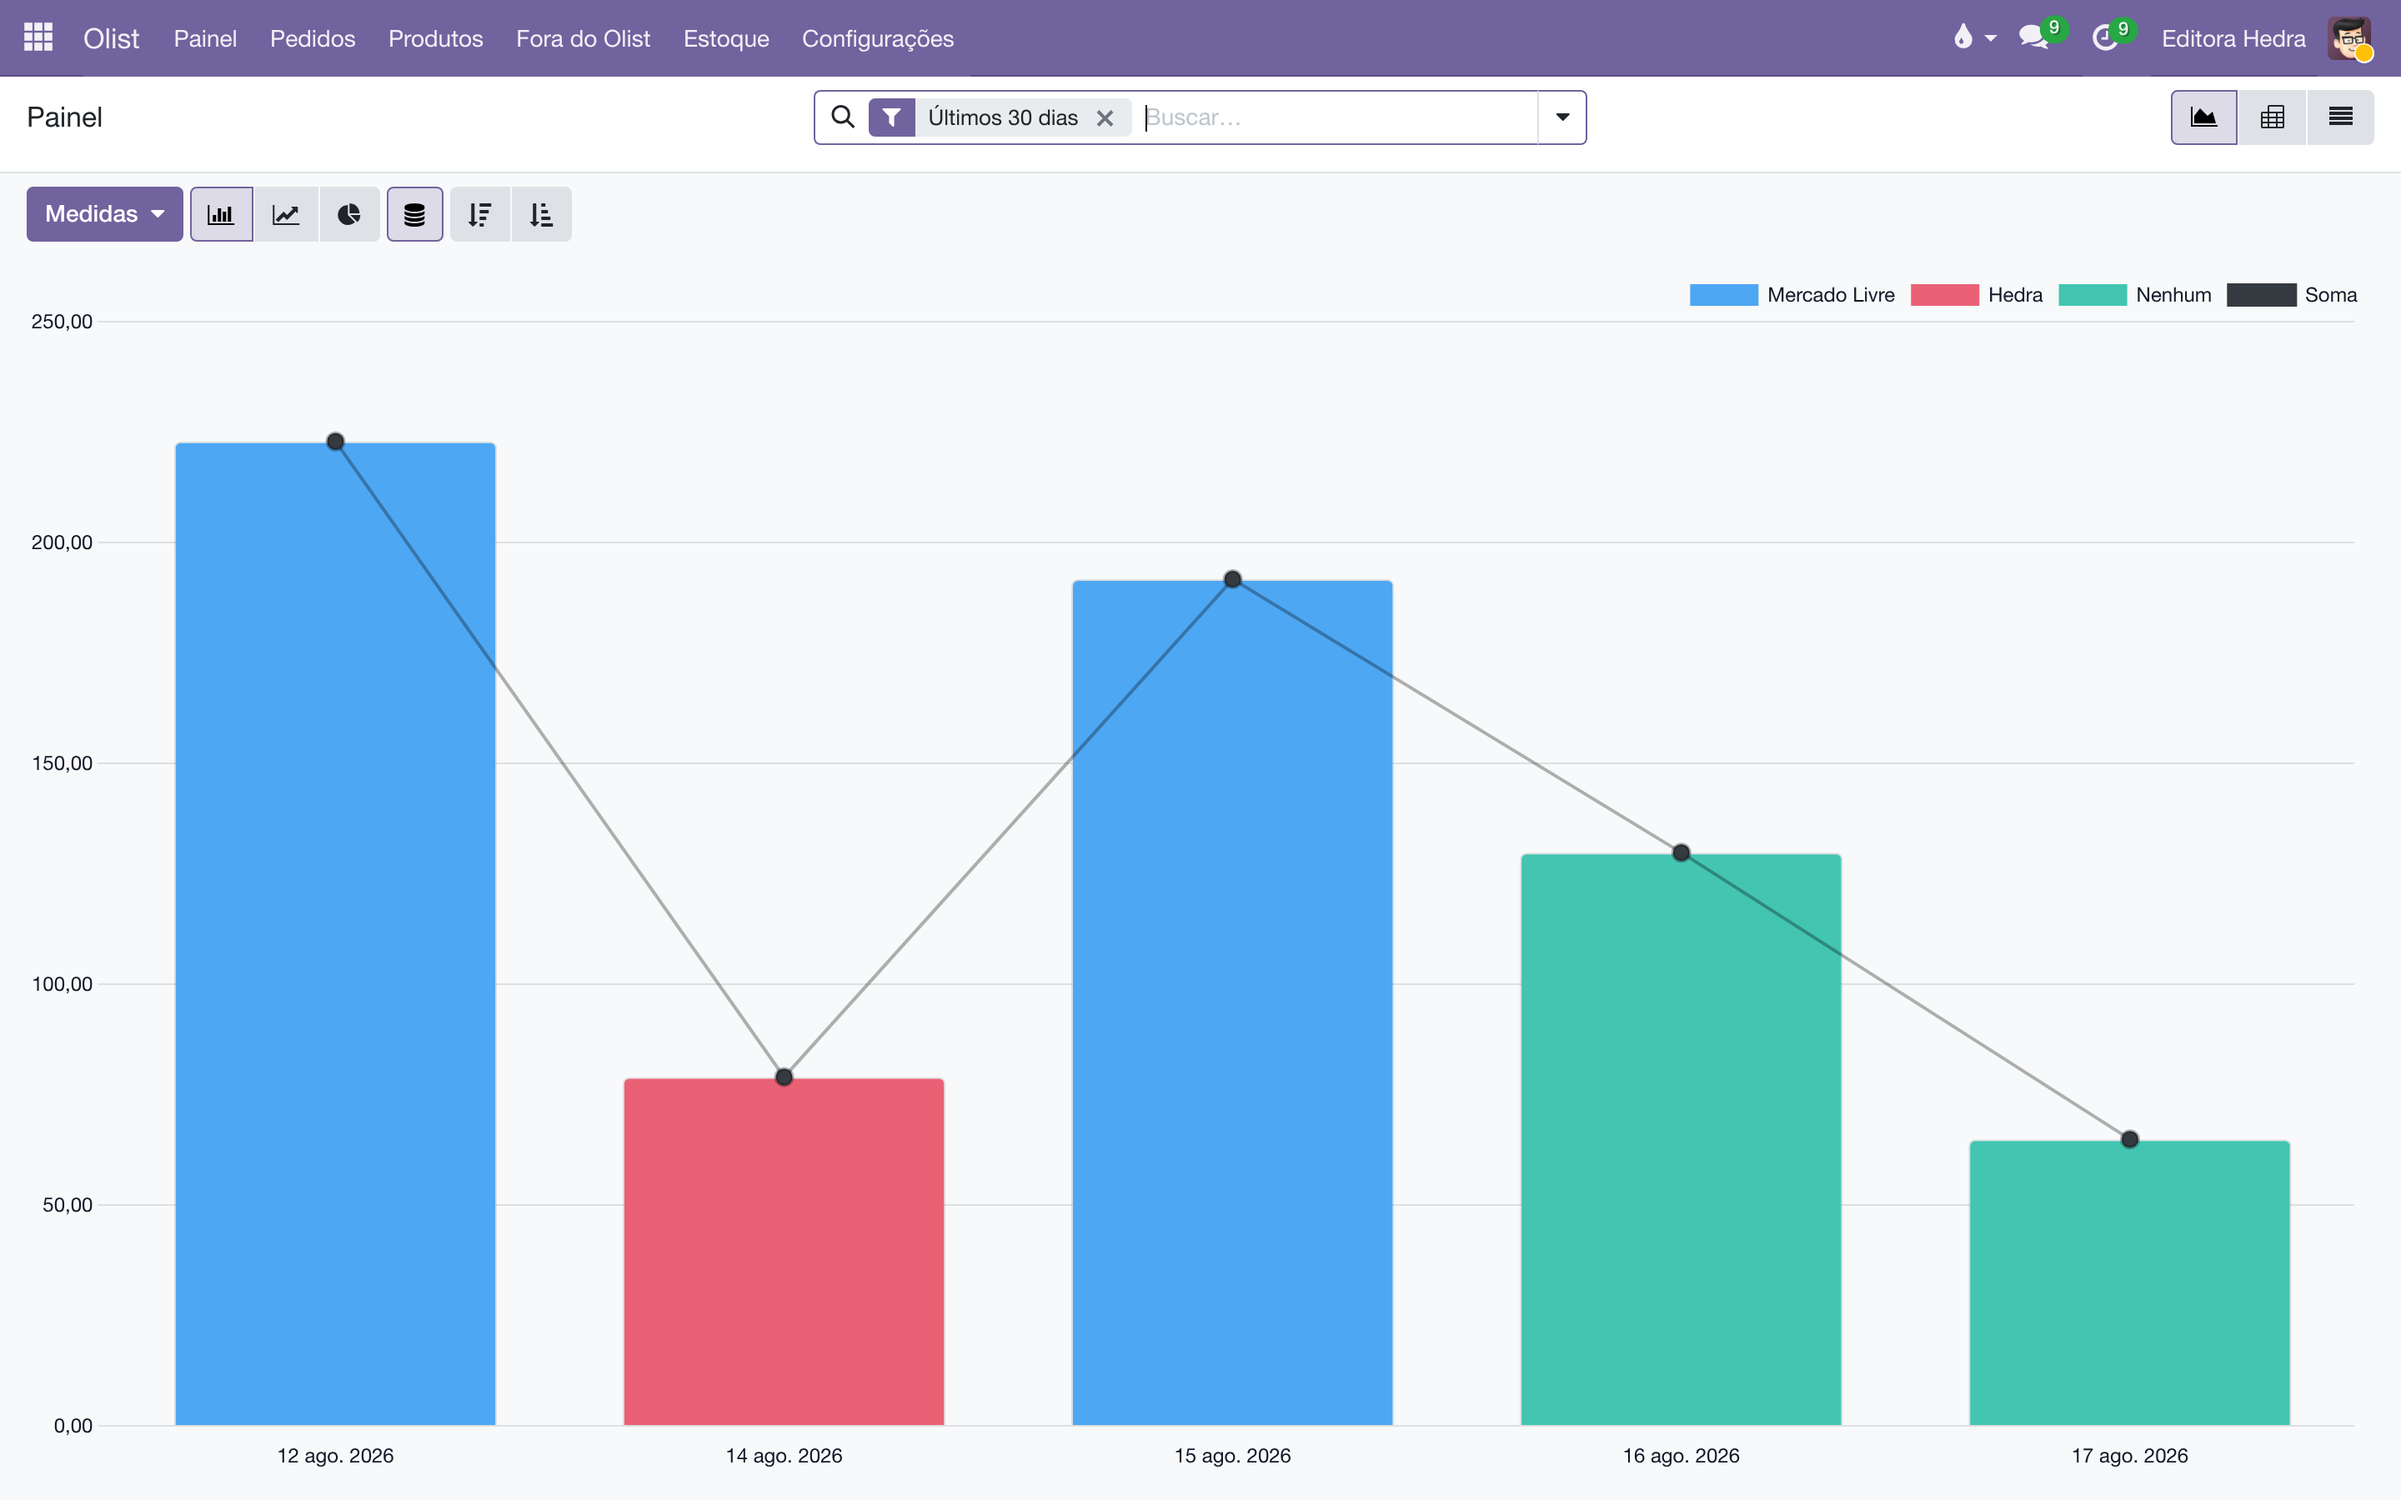
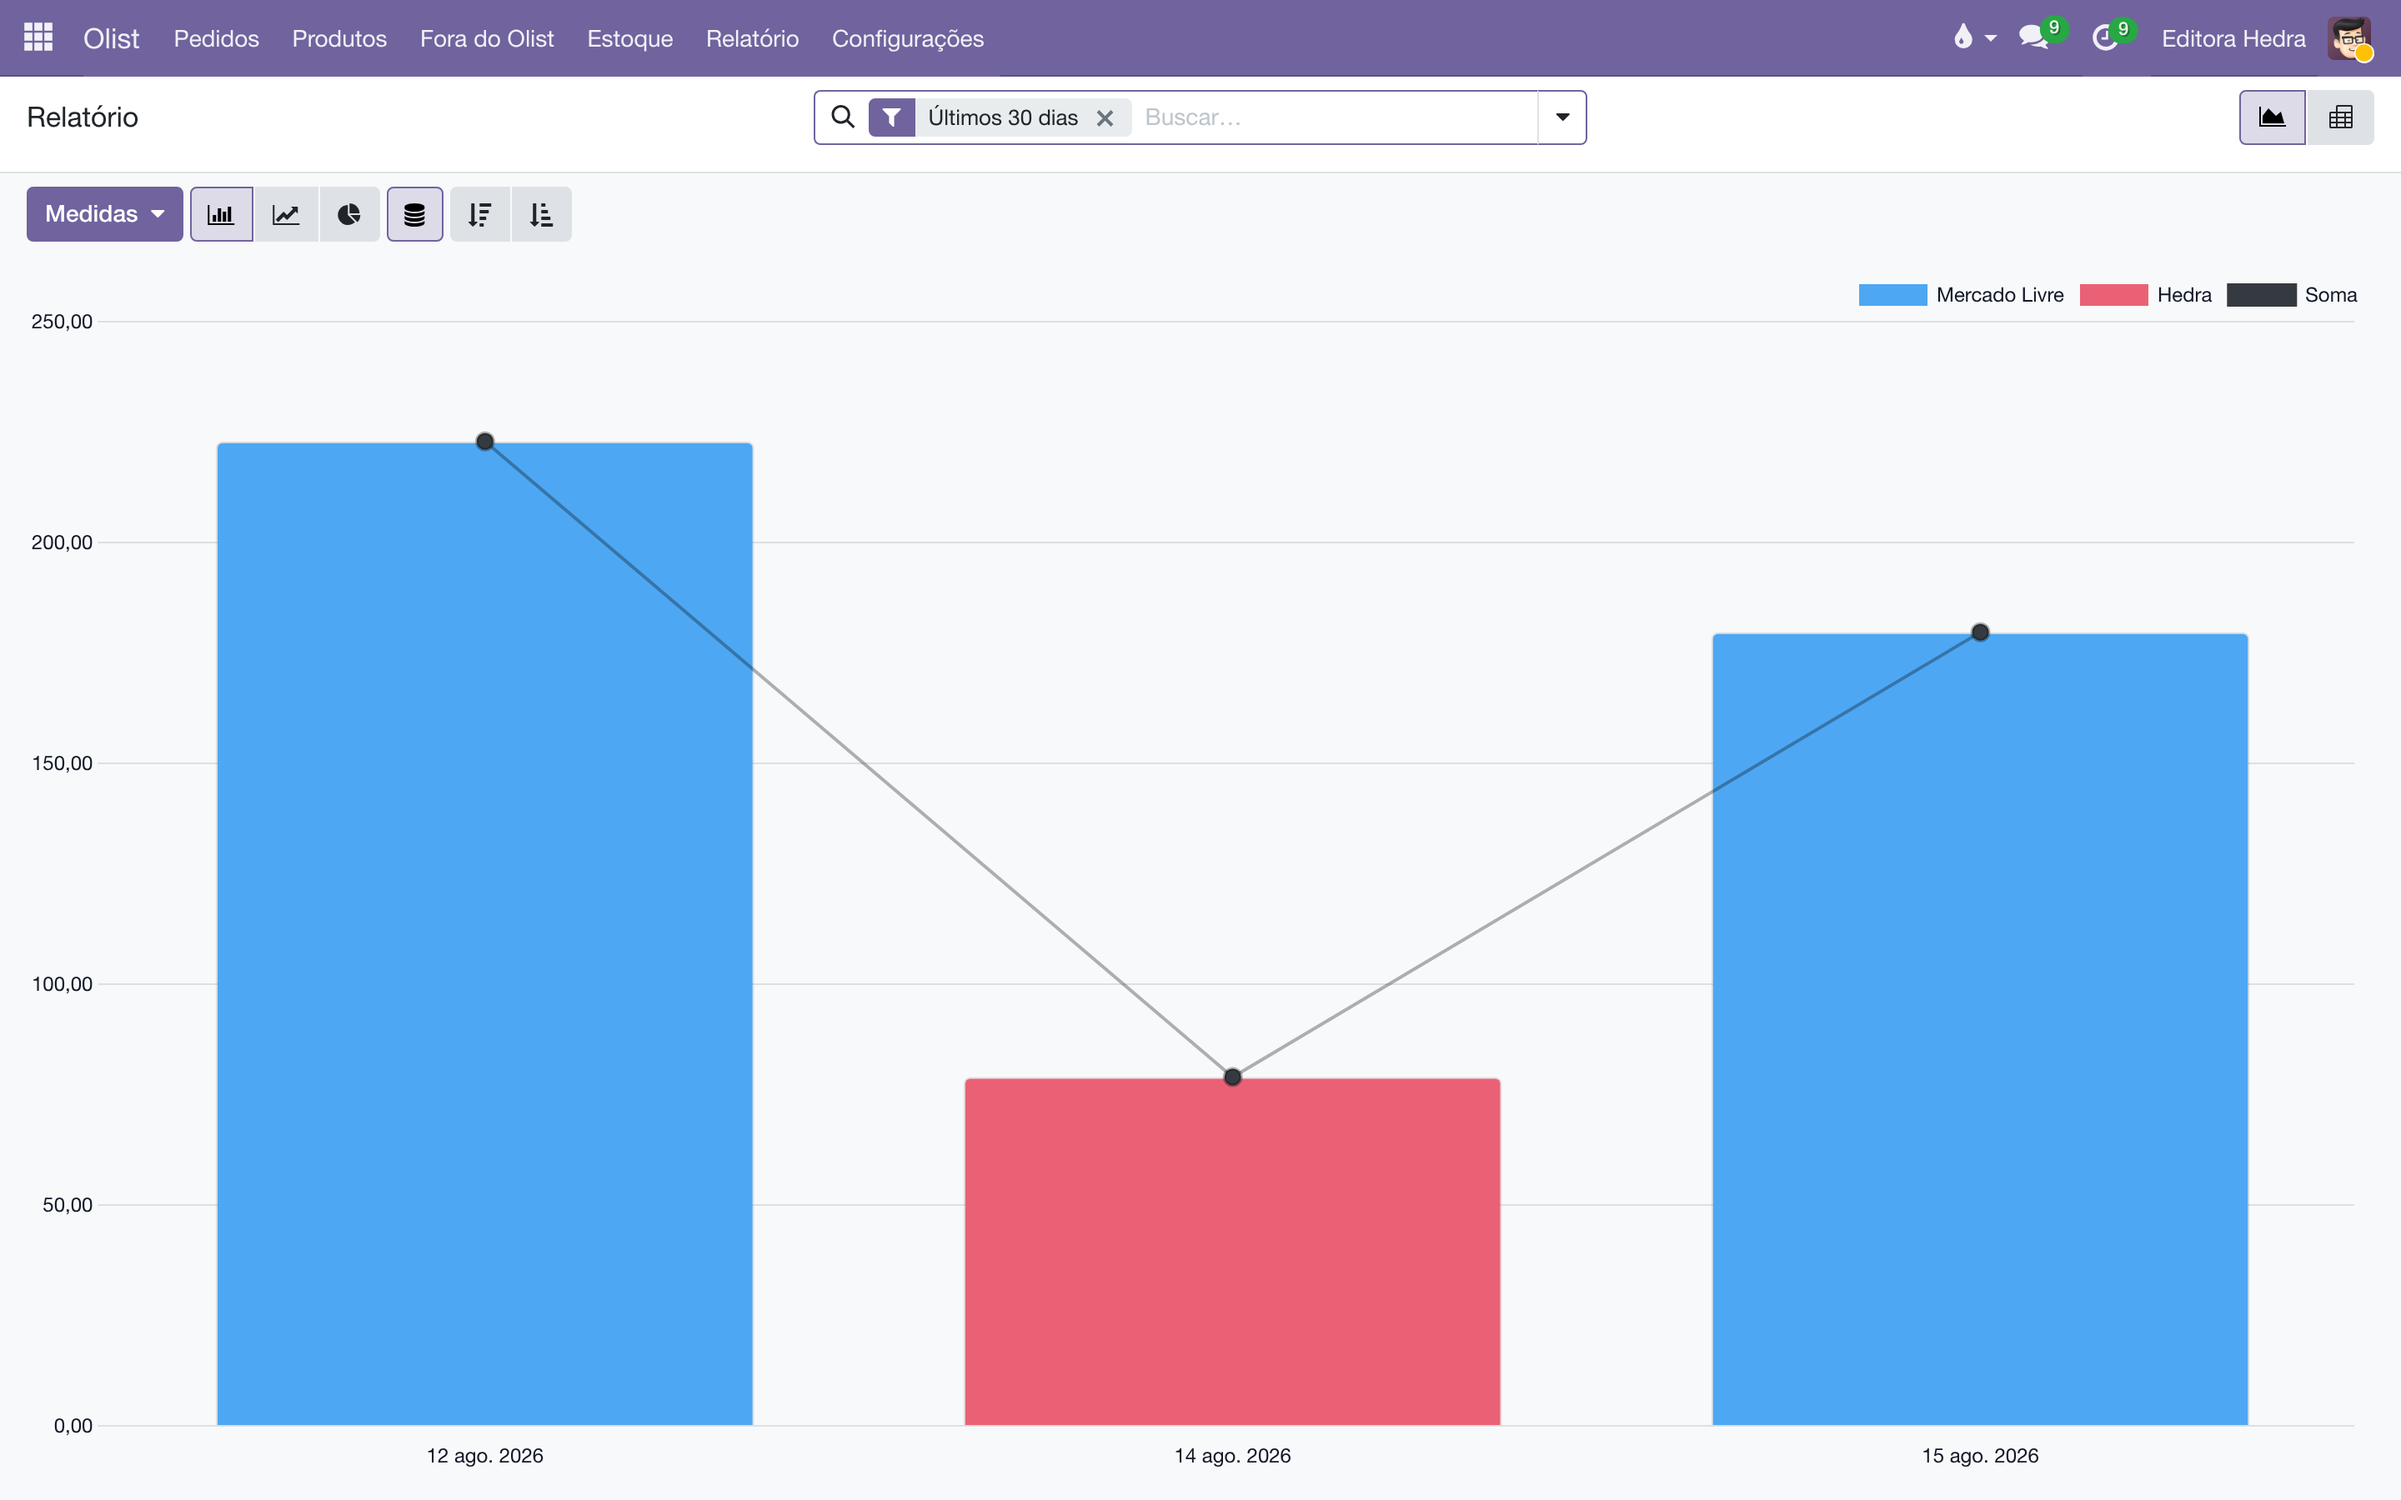
Sincroniza com o odoo-dev-edlab:19 (20af356)
Publicado por scripts/publish_liber_erp.sh a partir de 20af356
("O painel cresce e assume o nome certo: Relatório — quantidade, valor e livro").

Módulos tocados: liber_olist liber_site

O odoo-dev-edlab é a fonte; este repositório é derivado. Edição feita
aqui é apagada na próxima publicação.

diff --git a/liber_olist/static/description/index.html b/liber_olist/static/description/index.html
@@ -101,17 +101,22 @@
         alcança os pedidos que já tinham sido lidos.</figcaption>
       </figure>
 
-      <h2 id="painel" style="font-family:'Space Grotesk','Segoe UI',system-ui,sans-serif;font-size:24px;line-height:1.2;margin:40px 0 12px;padding-top:18px;border-top:1px solid #e5dbee;color:#251d2b;">Quanto vendemos por dia?</h2>
-      <p style="margin:0 0 12px;">A abertura do aplicativo é o <span class="field" style="font-weight:600;color:#251d2b;">Painel</span>: uma barra por dia com a
-      soma do valor dos pedidos, empilhada por canal, nos últimos 30 dias — cancelados fora. Dois
-      cliques alternam para o pivô (a tabela cruzada por dia e canal) ou para a lista. A fatia
-      "Nenhum" é pedido cujo canal ainda não foi lido pelo detalhe: ela míngua sozinha conforme as
-      leituras de 2 em 2 horas avançam.</p>
+      <h2 id="painel" style="font-family:'Space Grotesk','Segoe UI',system-ui,sans-serif;font-size:24px;line-height:1.2;margin:40px 0 12px;padding-top:18px;border-top:1px solid #e5dbee;color:#251d2b;">Quanto vendemos por dia — e de quê?</h2>
+      <p style="margin:0 0 12px;">Em <span class="menupath" style="display:inline-block;background:#f1eaf6;border:1px solid #e5dbee;border-radius:6px;padding:1px 8px;font-size:13.5px;color:#251d2b;white-space:nowrap;">Olist<i style="font-style:normal;color:#6e2f91;margin:0 4px;font-weight:700;">‣</i>Relatório</span> (logo antes das Configurações),
+      as vendas viram gráfico: uma barra por dia, empilhada por canal, nos últimos 30 dias —
+      cancelados fora. Ele nasce das <strong style="color:#251d2b;">linhas</strong> dos pedidos, então mede as duas
+      coisas que importam — <span class="field" style="font-weight:600;color:#251d2b;">Quantidade</span> (exemplares) e
+      <span class="field" style="font-weight:600;color:#251d2b;">Valor</span> (mercadoria, sem o frete) — e agrupa por
+      <strong style="color:#251d2b;">livro</strong>: o botão Medidas troca a régua, e o pivô mostra as duas lado a
+      lado, cruzadas por dia, canal ou título.</p>
       <figure class="shot" style="margin:20px 0 24px;">
-        <img src="img/doc-liber_olist-painel.png" alt="Painel de vendas diárias em barras, empilhado por canal, com o filtro de 30 dias" style="max-width:100%;display:block;margin:0 auto;border-radius:12px;border:1px solid #e5dbee;">
-        <figcaption style="font-size:13px;color:#5d5266;margin-top:10px;text-align:center;">O painel da abertura: o valor vendido por dia, com cada canal na sua cor —
-        e o pivô e a lista a dois cliques, para quem quer o número exato.</figcaption>
+        <img src="img/doc-liber_olist-painel.png" alt="Relatório de vendas em barras por dia, empilhado por canal, com o filtro de 30 dias" style="max-width:100%;display:block;margin:0 auto;border-radius:12px;border:1px solid #e5dbee;">
+        <figcaption style="font-size:13px;color:#5d5266;margin-top:10px;text-align:center;">O Relatório: o vendido por dia, cada canal na sua cor. Medidas Quantidade e
+        Valor, agrupamento por livro, e o pivô a um clique.</figcaption>
       </figure>
+      <div class="callout" style="border:1px solid #e5dbee;border-left:4px solid #6e2f91;border-radius:10px;background:#f1eaf6;padding:14px 18px;margin:0 0 16px;">Pedido cujo detalhe ainda não foi lido não tem linhas — e não aparece
+      aqui. Enquanto a cobertura do detalhe (na ficha da conta) não fechar, o número é um piso,
+      não o total.</div>
 
       <h2 id="pedidos" style="font-family:'Space Grotesk','Segoe UI',system-ui,sans-serif;font-size:24px;line-height:1.2;margin:40px 0 12px;padding-top:18px;border-top:1px solid #e5dbee;color:#251d2b;">A venda desce pronta</h2>
       <p style="margin:0 0 12px;">Em <span class="menupath" style="display:inline-block;background:#f1eaf6;border:1px solid #e5dbee;border-radius:6px;padding:1px 8px;font-size:13.5px;color:#251d2b;white-space:nowrap;">Olist<i style="font-style:normal;color:#6e2f91;margin:0 4px;font-weight:700;">‣</i>Pedidos</span>, a lista traz os pedidos de lá com situação,

diff --git a/liber_site/static/docs/liber_olist.html b/liber_site/static/docs/liber_olist.html
@@ -143,18 +143,23 @@
         alcança os pedidos que já tinham sido lidos.</figcaption>
       </figure>
 
-      <h2 id="painel">Quanto vendemos por dia?</h2>
-      <p>A abertura do aplicativo é o <span class="field">Painel</span>: uma barra por dia com a
-      soma do valor dos pedidos, empilhada por canal, nos últimos 30 dias — cancelados fora. Dois
-      cliques alternam para o pivô (a tabela cruzada por dia e canal) ou para a lista. A fatia
-      "Nenhum" é pedido cujo canal ainda não foi lido pelo detalhe: ela míngua sozinha conforme as
-      leituras de 2 em 2 horas avançam.</p>
+      <h2 id="painel">Quanto vendemos por dia — e de quê?</h2>
+      <p>Em <span class="menupath">Olist<i>‣</i>Relatório</span> (logo antes das Configurações),
+      as vendas viram gráfico: uma barra por dia, empilhada por canal, nos últimos 30 dias —
+      cancelados fora. Ele nasce das <strong>linhas</strong> dos pedidos, então mede as duas
+      coisas que importam — <span class="field">Quantidade</span> (exemplares) e
+      <span class="field">Valor</span> (mercadoria, sem o frete) — e agrupa por
+      <strong>livro</strong>: o botão Medidas troca a régua, e o pivô mostra as duas lado a
+      lado, cruzadas por dia, canal ou título.</p>
       <figure class="shot">
         <img src="img/doc-liber_olist-painel.png"
-             alt="Painel de vendas diárias em barras, empilhado por canal, com o filtro de 30 dias">
-        <figcaption>O painel da abertura: o valor vendido por dia, com cada canal na sua cor —
-        e o pivô e a lista a dois cliques, para quem quer o número exato.</figcaption>
+             alt="Relatório de vendas em barras por dia, empilhado por canal, com o filtro de 30 dias">
+        <figcaption>O Relatório: o vendido por dia, cada canal na sua cor. Medidas Quantidade e
+        Valor, agrupamento por livro, e o pivô a um clique.</figcaption>
       </figure>
+      <div class="callout">Pedido cujo detalhe ainda não foi lido não tem linhas — e não aparece
+      aqui. Enquanto a cobertura do detalhe (na ficha da conta) não fechar, o número é um piso,
+      não o total.</div>
 
       <h2 id="pedidos">A venda desce pronta</h2>
       <p>Em <span class="menupath">Olist<i>‣</i>Pedidos</span>, a lista traz os pedidos de lá com situação,

diff --git a/liber_olist/tests/test_telas.py b/liber_olist/tests/test_telas.py
@@ -43,20 +43,25 @@ class TestTelasDoOlist(TransactionCase):
             self._lista_da_acao('action_olist_catalog'),
             "Estoque e Produtos respondem perguntas diferentes")
 
-    def test_o_painel_abre_no_grafico_de_vendas(self):
-        """A abertura do app é o painel: barras por dia, empilhadas por
-        canal, últimos 30 dias — e cancelado não é venda."""
+    def test_o_relatorio_mede_quantidade_e_valor_por_livro(self):
+        """O Relatório nasce da LINHA (quem sabe livro e quantidade), abre no
+        gráfico, exclui cancelados e mora antes das Configurações."""
         acao = self.env.ref('liber_olist.action_olist_dashboard')
-        self.assertTrue(acao.view_mode.startswith('graph'),
-                        "o painel tem de abrir no gráfico, não numa lista")
-        self.assertIn("'cancelado'", acao.domain,
-                      "cancelado contaria como venda no painel")
+        self.assertEqual(acao.res_model, 'olist.order.line',
+                         "só a linha sabe produto e quantidade")
+        self.assertTrue(acao.view_mode.startswith('graph'))
+        self.assertIn("Cancelado", acao.domain,
+                      "cancelado contaria como venda no relatório")
         self.assertIn('f_30_dias', acao.context,
                       "sem a janela de 30 dias o gráfico vira a história toda")
-        grafico = self.env.ref('liber_olist.view_olist_order_graph')
-        for campo in ('data_pedido', 'canal', 'valor'):
-            self.assertIn(campo, grafico.arch,
-                          "o gráfico perdeu o eixo/medida %s" % campo)
+        pivo = self.env.ref('liber_olist.view_olist_order_line_pivot')
+        for medida in ('quantidade', 'valor_total'):
+            self.assertIn(medida, pivo.arch,
+                          "o pivô perdeu a medida %s" % medida)
+        busca = self.env.ref('liber_olist.view_olist_order_line_search')
+        self.assertIn('product_id', busca.arch,
+                      "o agrupamento por livro é o pedido do dono")
         menu = self.env.ref('liber_olist.menu_olist_dashboard')
-        self.assertEqual(menu.sequence, 1,
-                         "o painel tem de ser a primeira tela da abertura")
+        config = self.env.ref('liber_olist.menu_olist_config')
+        self.assertLess(menu.sequence, config.sequence,
+                        "o Relatório mora antes das Configurações")

diff --git a/liber_olist/models/olist_order.py b/liber_olist/models/olist_order.py
@@ -1157,6 +1157,20 @@ class OlistOrderLine(models.Model):
              "portanto o que vale a pena casar primeiro.")
     order_situacao = fields.Char(related='order_id.situacao', store=True)
     order_data = fields.Date(related='order_id.data_pedido', store=True)
+    # As medidas do Relatório: a linha é quem sabe livro e quantidade — o
+    # pedido só sabe o total (com frete). Valor aqui é mercadoria, sem frete.
+    canal = fields.Char(related='order_id.canal', store=True,
+                        string="Canal no Olist")
+    valor_total = fields.Float(
+        "Valor", compute='_compute_valor_total', store=True,
+        help="Quantidade × valor unitário da linha — mercadoria, sem o frete "
+             "do pedido. É a medida de valor do Relatório.")
+
+    @api.depends('quantidade', 'valor_unitario')
+    def _compute_valor_total(self):
+        for linha in self:
+            linha.valor_total = (linha.quantidade or 0.0) * (
+                linha.valor_unitario or 0.0)
 
     def _sale_line_vals(self):
         self.ensure_one()

diff --git a/liber_olist/__manifest__.py b/liber_olist/__manifest__.py
@@ -15,7 +15,7 @@ company's CNPJ.
 """,
     'author': "EdLab",
     'category': 'Accounting',
-    'version': '19.0.12.10.0',
+    'version': '19.0.12.11.0',
     'license': 'LGPL-3',
     # `liber_metabooks_integration` porque a casa decidiu (17/08/2026) o que é o
     # CATÁLOGO: livro Metabooks do tipo pbook. Sem ele, "o que é nosso e ainda
